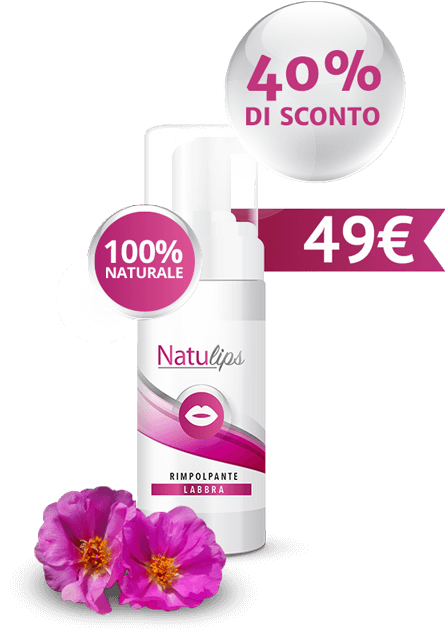
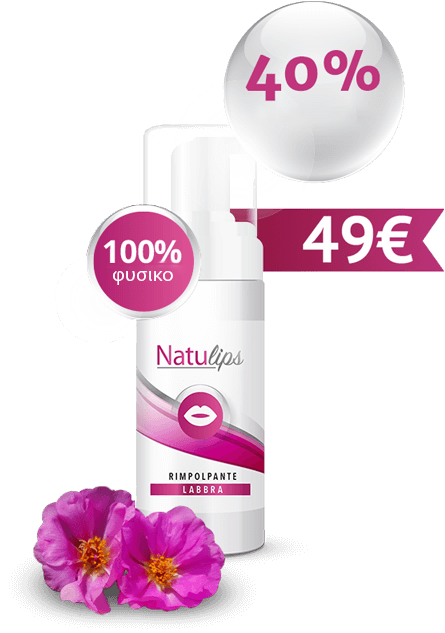
c

diff --git a/natulips/gr/index.html b/natulips/gr/index.html
@@ -2,7 +2,7 @@
   <meta charset="UTF-8">
   <meta name="viewport" content="width=device-width, initial-scale=1.0">
   <meta http-equiv="X-UA-Compatible" content="ie=edge">
-  <title> Natulips </title>
+  <title>Natulips</title>
   <link href="css/css.css" rel="stylesheet">
   <link href="css/main.css" rel="stylesheet">
 </head>
@@ -18,21 +18,18 @@
         <img src="img/product.png" alt>
       </div>
       <div class="part-one__details">
-        <h1 class="part-one__heading"> Τα χείλη των ονείρων σας
-<br> Χωρίς ενέσεις
-</h1>
+        <h1 class="part-one__heading"> ΤΑ ΧΕΙΛΙ ΤΩΝ ΟΝΕΙΡΩΝ ΣΑΣ<br> ΧΩΡΙΣ ΕΝΕΣΕΙΣ</h1>
         <p class="part-one__sub-heading"> Αυξηντική χειλιών,<br> χωρίς ενέσεις και χειρουργείο</p>
         <ul class="part-one__details-list">
-          <li class="part-one__details-list-item"> Δίνει όγκο και τονώνει τα χείλη.</li>
-          <li class="part-one__details-list-item"> Αναδεικνύουν το σχηματισμό τους
-</li>
-          <li class="part-one__details-list-item"> 100% Φυσικά συστατικά</li>
-          <li class="part-one__details-list-item"> Μόνο για σήμερα: 49 € αντι<del> 98€</del>
+          <li class="part-one__details-list-item"> ΔΙΝΕΙ ΟΓΚΟ ΚΑΙ ΤΟΝΩΝΕΙ ΤΑ ΧΕΙΛΗ</li>
+          <li class="part-one__details-list-item"> ΑΝΑΔΕΙΚΝΥΟΥΝ ΤΟ ΣΧΗΜΑΤΙΣΜΟ ΤΟΥΣ</li>
+          <li class="part-one__details-list-item"> 100% ΦΥΣΙΚΑ ΣΥΣΤΑΤΙΚΑ</li>
+          <li class="part-one__details-list-item"> ΜΟΝΟ ΓΙΑ ΣΗΜΕΡΑ: 49€ ΑΝΤΙ<del> 98€</del>
           </li>
         </ul>
 
         <div class="part-one__badges-container">
-          <a href="#main-form" class="part-one__button"> Παραγγείλτε τώρα</a>
+          <a href="#main-form" class="part-one__button"> ΠΑΡΑΓΓΕΙΛΤΕ ΤΩΡΑ</a>
           <div class="part-one__badge part-one__badge--first"></div>
           <div class="part-one__badge part-one__badge--second"></div>
           <div class="part-one__badge part-one__badge--third"></div>
@@ -42,15 +39,14 @@
   </section>
 
   <section class="part-two">
-    <h2 class="part-two__heading"> Συστατικά
-<br> NatuLips</h2>
+    <h2 class="part-two__heading"> ΣΥΣΤΑΤΙΚΑ<br> NatuLips</h2>
     <div class="part-two__cards-container">
       <div class="part-two__card">
         <div class="part-two__card-image">
           <img src="img/1.png" alt>
         </div>
 
-        <h3 class="part-two__card-heading"> Υαλουρονικό οξύ</h3>
+        <h3 class="part-two__card-heading"> ΥΑΛΟΥΡΟΝΙΚΟ ΟΞΥ</h3>
         <p class="part-two__card-text"> Το καλύτερο συστατικό για τα καλλυντικά προϊόντα με άμεση και φυσική αγωγή</p>
       </div>
       <div class="part-two__card">
@@ -58,7 +54,7 @@
           <img src="img/2.png" alt>
         </div>
 
-        <h3 class="part-two__card-heading"> Πεπτίδια</h3>
+        <h3 class="part-two__card-heading"> ΠΕΠΤΙΔΙΑ</h3>
         <p class="part-two__card-text"> Τα εκχυλίσματα φρούτων λειτουργούν ως αντιοξειδωτικά, αποτρέποντας τη γήρανση των κυττάρων.</p>
       </div>
       <div class="part-two__card">
@@ -66,7 +62,7 @@
           <img src="img/3.png" alt>
         </div>
 
-        <h3 class="part-two__card-heading"> Εκχύλισμα τσίλι</h3>
+        <h3 class="part-two__card-heading"> ΕΚΧΥΛΙΣΜΑ ΤΣΙΛΙ</h3>
         <p class="part-two__card-text"> Τονώνει τους ιστούς και κάνει τα χείλη πιο φουσκωμένα και όμορφα.</p>
       </div>
       <div class="part-two__card">
@@ -74,16 +70,16 @@
           <img src="img/4.png" alt>
         </div>
 
-        <h3 class="part-two__card-heading"> Εκχύλισμα ανδρακλή</h3>
+        <h3 class="part-two__card-heading"> ΕΚΧΥΛΙΣΜΑ ΑΝΔΡΑΚΗ</h3>
         <p class="part-two__card-text"> Προωθεί τη φυσική ανάπτυξη των χειλιών</p>
       </div>
     </div>
   </section>
 
   <section class="part-three">
-    <h2 class="part-three__heading part-three__heading--main"> Αξίζει<br> να το παραγγείλω?</h2>
+    <h2 class="part-three__heading part-three__heading--main"> ΑΞΙΖΕΙ<br> ΝΑ ΤΟ ΠΑΡΑΓΓΕΙΛΩ?</h2>
     <p class="part-three__text"> Χάρη στις NatuLips, μπορείτε να έχετε τα πιο ογκώδη χείλη.<strong> χωρίς καλλυντική παρέμβαση.</strong><br><br> Χάρη στα φυσικά ενεργά συστατικά του, μπορείτε να έχετε τα χείλη που πάντα ονειρευόσασταν, χωρίς αντενδείξεις<strong> μόνο με 49€</strong> . Το ποσό είναι αστείο σε σύγκριση με τις ενέσεις που θα κάνατε ή θα αγοράζατε τα αποκαλούμενα επαγγελματικά προϊόντα που δεν θα λειτουργούσαν.</p>
-    <h2 class="part-three__heading"> Πως λειτουργούν οι NatuLips?</h2>
+    <h2 class="part-three__heading"> ΠΩΣ ΛΕΙΤΟΥΡΓΟΥΝ ΟΙ ΝATULIPS?</h2>
     <p class="part-three__text part-three__text"> Οι NatuLips - είναι σταγόνες χωρίς λιπαρά που συνδυάζει τα καλύτερα φυσικά συστατικά για τη βελτίωση του σχήματος, της επιφάνειας και της ποιότητας των χειλιών.<br><br> L'<strong> Το υαλουρονικό οξύ</strong> αμέσως δίνει στα χείλη "πρήξιμο"<strong> Πεπτίδια</strong> Διατηρεί αυτό το αποτέλεσμα για μεγάλο χρονικό διάστημα.<strong> Το τσίλι και το ανδρακλή</strong> συμβάλλουν σε αυτές τις διαδικασίες, με αποτέλεσμα τα χείλη να γίνονται πιο σαρκώδη, ογκώδη και όμορφα.</p>
   </section>
 
@@ -94,8 +90,8 @@
     </div>
     <div class="part-four__content">
       <div class="part-four__content-container">
-        <h2 class="part-four__heading"> Η γνώμη<br> εμπειρογνώμονα</h2>
-        <h5 class="part-four__sub-heading"> Ο δόκτωρ Αγγελόπουλος - πλαστικός χειρούργος</h5>
+        <h2 class="part-four__heading"> Η ΓΝΩΜΗ<br> ΕΜΠΕΙΡΟΓΝΩΜΟΝΑ</h2>
+        <h5 class="part-four__sub-heading"> Ο ΔΟΚΤΩΡ ΑΓΓΕΛΟΠΟΥΛΟΣ - ΠΑΣΤΙΚΟΣ ΧΕΙΡΟΥΡΓΟΣ</h5>
         <p class="part-four__text"> Συνιστώ τις σταγόνες NatuLips σε όλους τους ασθενείς μου που έρχονται για χειρουργική επέμβαση ζητώντας να τους κάνω αυξηντική ή ένεση στα χείλια. Η NatuLips προσφέρει ένα φυσικό, αισθητικά τέλειο αποτέλεσμα χωρίς δαπανηρές και επικίνδυνες διαδικασίες. Δεν υπάρχουν αντενδείξεις - στην πραγματικότητα, όλοι μπορούν να χρησιμοποιήσουν αυτό το προϊόν.</p>
       </div>
     </div>
@@ -114,9 +110,8 @@
           <img src="img/stamp_2-big.png" alt class="part-five__badge">
           <img src="img/stamp_3-big.png" alt class="part-five__badge">
         </div>
-        <h2 class="part-five__heading"> Κάντε την αγορά
-<br> Natulips<br>
-          <span class="part-five__discount"> με έκπτωση 50%</span>
+        <h2 class="part-five__heading"> ΚΑΝΤΕ ΤΗΝ ΑΓΟΡΑ<br> NATULIPS<br>
+          <span class="part-five__discount"> ΜΕ ΕΚΠΤΩΣΗ 50%</span>
         </h2>
         <a href="#main-form" class="part-five__button"> Παραγγείλτε το τώρα
 </a>
@@ -128,7 +123,7 @@
 
   <section class="part-seven">
     <img class="part-seven__flower" src="img/flower.png" alt>
-    <p class="part-seven__text"> Η πλούσια εμπειρία μας στη βιομηχανία καλλυντικών είναι η μεγαλύτερη εγγύηση για καλύτερη ποιότητα προϊόντος. Σας καθοδηγούμε σε όλα τα στάδια της θεραπείας και σας παρέχουμε πλήρη υποστήριξη.</p>
+    <p class="part-seven__text"> Η ΠΛΟΥΣΙΑ ΕΜΠΕΙΡΙΑ ΜΑΣ ΣΤΗ ΒΙΟΜΗΧΑΝΙΑ ΚΑΛΛΥΝΤΙΚΩΝ ΕΙΝΑΙ Η ΜΕΓΑΛΥΤΕΡΗ ΕΓΓΥΗΣΗ ΓΙΑ ΚΑΛΥΤΕΡΗ ΠΟΙΟΤΗΤΑ ΠΡΟΙΟΝΤΟΣ. ΣΑΣ ΚΑΘΟΔΗΓΟΥΜΕ ΣΕ ΟΛΑ ΤΑ ΣΤΑΔΙΑ ΤΗΣ ΘΕΡΑΠΕΙΑΣ ΚΑΙ ΣΑΣ ΠΑΡΕΧΟΥΜΕ ΠΛΗΡΗ ΥΠΟΣΤΗΡΙΞΗ.</p>
   </section>
 
   <footer class="footer">
@@ -148,7 +143,7 @@
             <div class="input-wrap">
               <input type="number" required name="phone" placeholder="Εισάγετε Τηλέφωνο">
             </div>
-            <button type="submit" class="part-five__button"><span> Παραγγελία</span></button>
+            <button type="submit" class="part-five__button"><span> ΠΑΡΑΓΓΕΛΙΑ</span></button>
           </form>
         </div>
       </div>
@@ -168,8 +163,7 @@
     </div>
     <div class="footer__bottom-bar">
       <p class="footer__bottom-bar-text">
-        <strong> Η Πληρωμή πραγματοποιείται κατα την παράδοση μέσω courier!
-</strong>
+        <strong> Η ΠΛΗΡΩΜΗ ΠΡΑΓΜΑΤΟΠΟΙΕΙΤΑΙ ΚΑΤΑ ΤΗΝ ΠΑΡΑΔΟΣΗ ΜΕΣΩ COURIER!</strong>
 
       </p>
     </div>
